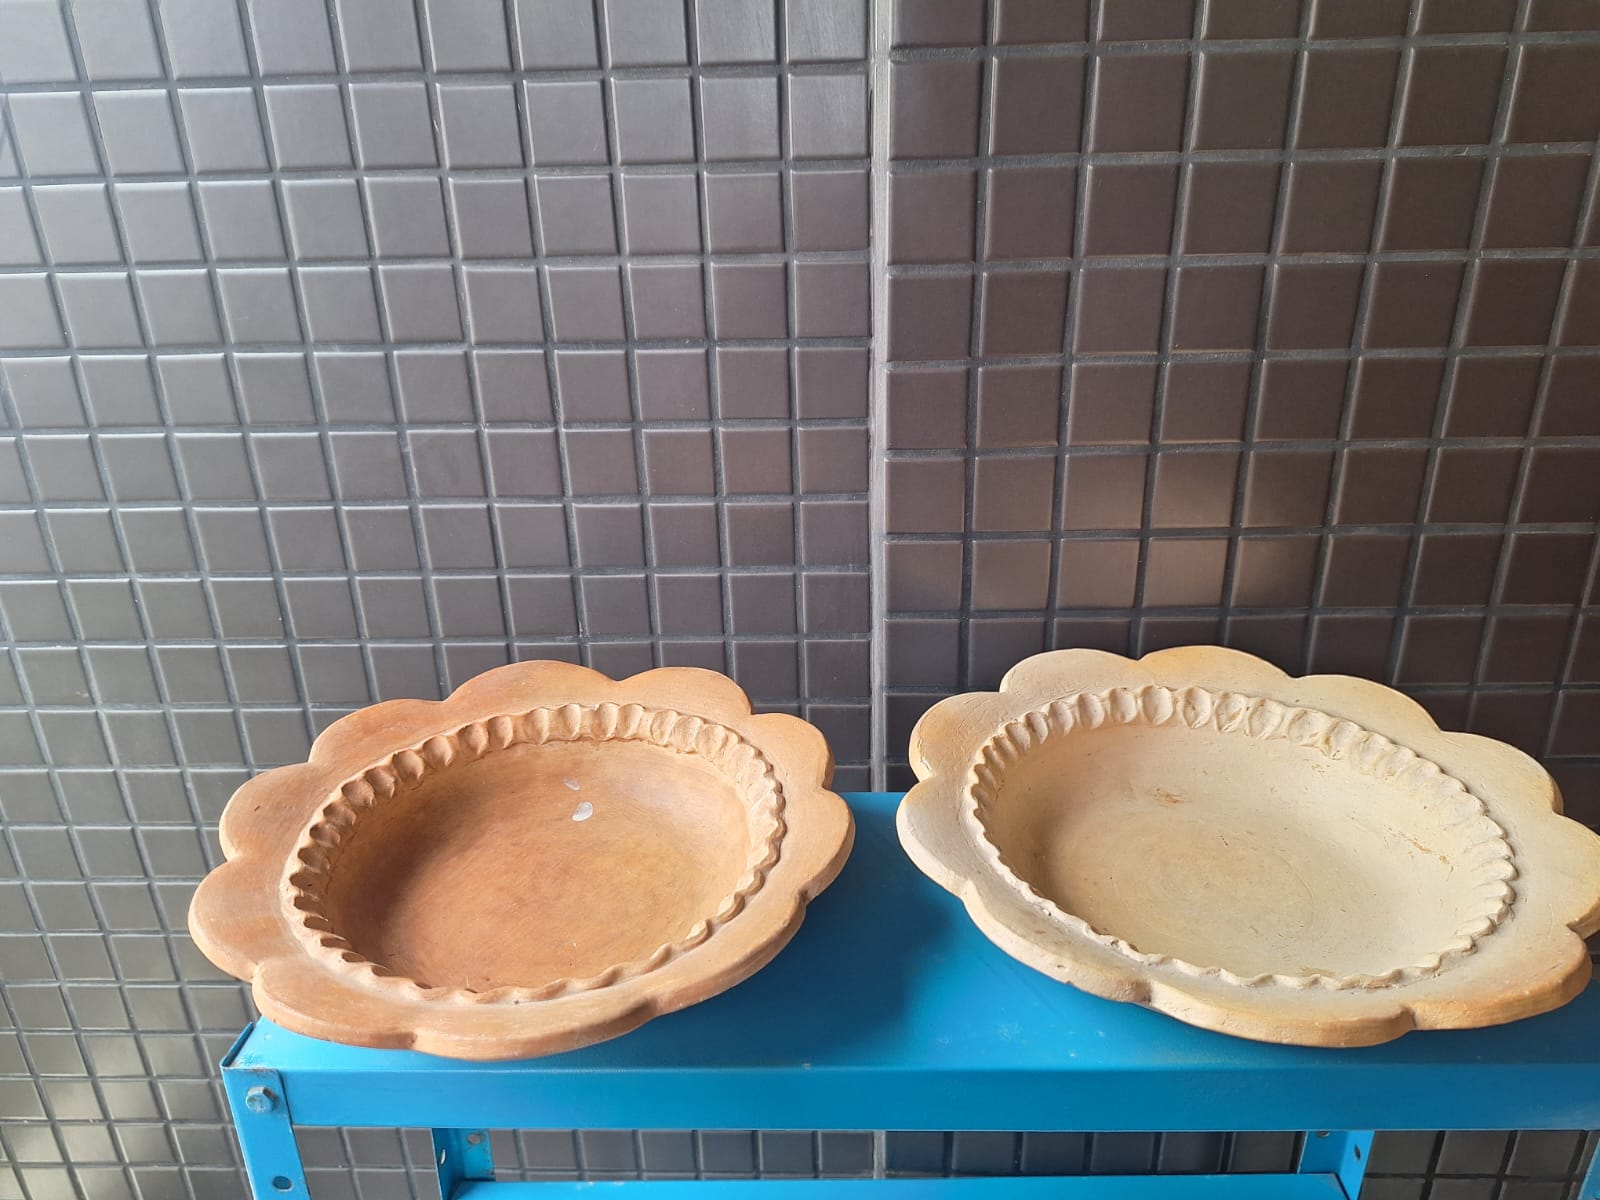
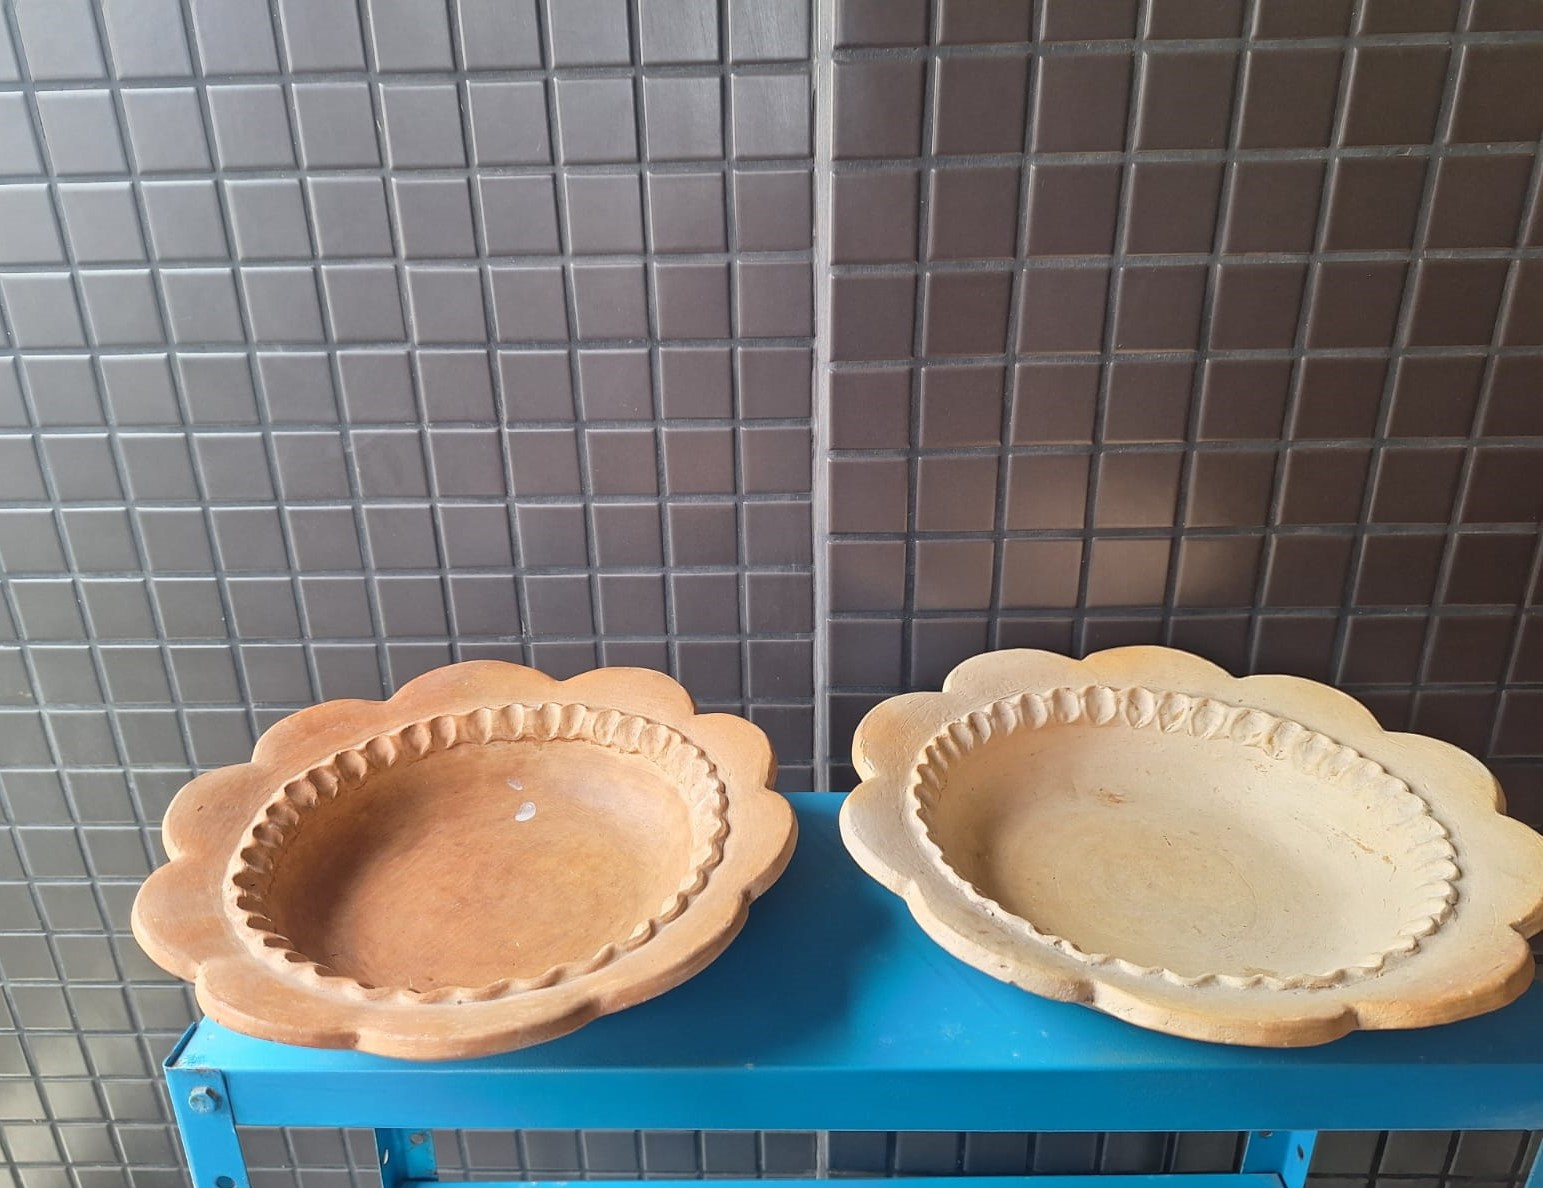
atualizando

diff --git a/index.html b/index.html
@@ -115,6 +115,13 @@
         .fc-vp { width: 100%; height: 100%; }
         .fc-tr { width: 100%; height: 100%; }
         .fc-sl { flex: 0 0 100%; width: 100%; max-width: 100%; height: 100%; box-sizing: border-box; }
+        @keyframes blink-alert {
+            0%, 100% { opacity: 1; }
+            50% { opacity: 0.2; }
+        }
+        .blink-alert {
+            animation: blink-alert 1.5s ease-in-out infinite;
+        }
     </style>
 </head>
 <body class="bg-surface-bright text-on-surface">
@@ -146,6 +153,7 @@
 
 <!-- Móveis disponíveis: itens gerados a partir de assets/furniture-data.js -->
 <section id="moveis" class="flex flex-col gap-stack-lg" aria-labelledby="moveis-titulo">
+<p id="moveis-count" class="font-headline-lg-mobile text-headline-lg-mobile text-primary serif leading-tight blink-alert">0 itens para venda</p>
 <h3 id="moveis-titulo" class="font-headline-md text-headline-md text-secondary serif border-b border-outline-variant/30 pb-4">Móveis Disponíveis</h3>
 <div id="moveis-list" class="flex flex-col gap-stack-lg"></div>
 </section>
@@ -283,7 +291,15 @@
     return out;
   }
 
+  function updateMoveisCount(count) {
+    var countEl = document.getElementById('moveis-count');
+    if (!countEl) return;
+    var label = count === 1 ? 'item' : 'itens';
+    countEl.textContent = count + ' ' + label + ' para venda';
+  }
+
   function renderList(phone, items) {
+    updateMoveisCount(Array.isArray(items) ? items.length : 0);
     var listEl = document.getElementById('moveis-list');
     listEl.innerHTML = '';
 